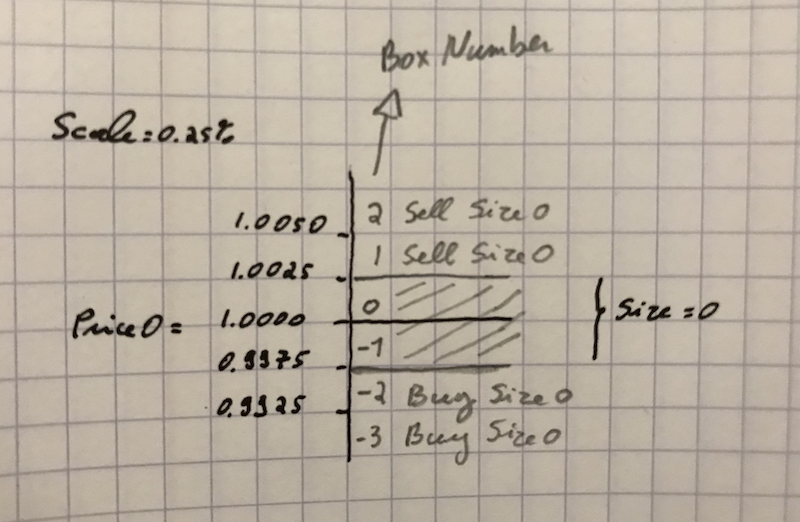
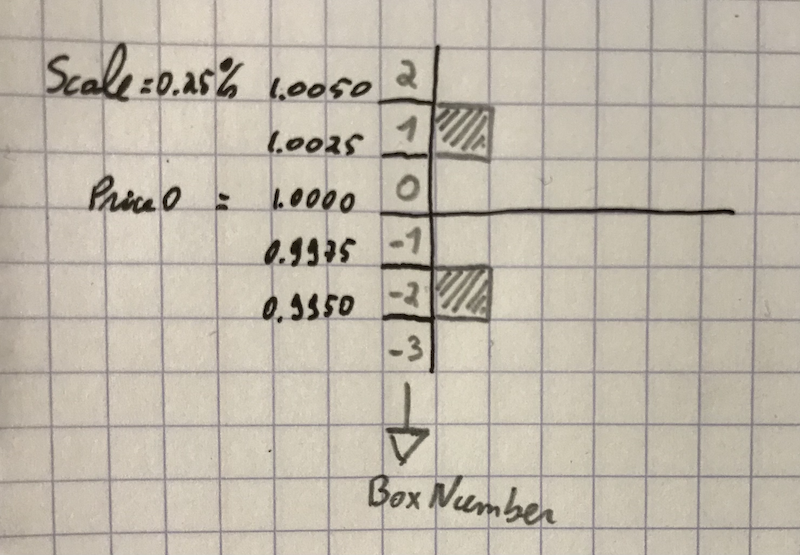
Some corrections, texts and figures.

diff --git a/hedge.md b/hedge.md
@@ -1,6 +1,6 @@
 # Hedging Strategies and Management
 
-An Hedge is a strategy to protect against Forex risk. Static hedges have for purpose to exactly counter balance the forex risk on another contract. Dynamic Hedges have for purpose to look to yield some profit, allowing a certain level of loss.
+An Hedge is a strategy to protect against Forex risk. Static hedges have for purpose to exactly counter balance the forex risk on another contract. Dynamic Hedges have for purpose to yield some profit, allowing for a certain level of loss.
 
 ## Static Hedge
 
@@ -26,7 +26,7 @@ curl -data '{"Size": -10000}' localhost:8080/hedge/static
 
 ## Dynamic Hedge
 
-A Dynamic Hedge is a position variable in size with price fluctuations.
+A Dynamic Hedge is a position variable in size as price fluctuates.
 
 ### Initialisation Parameters:
 
@@ -46,39 +46,42 @@ On the first tick, the dynamic hedge is initialised:
 Imagine the initialisation price is 1.0000, **Price0** is set at 1.0000. Price boxes are defined and numbered as show in the figure below:
 
 ![](img/box0.png)
-*Boxes with price thresholds and corresponding order.*
+*Boxes with price thresholds and corresponding trades.*
 
 
 The Size of the hedge remains 0 for any price fluctuation within Box # -1 and Box # 0 (0.9975 - 1.0025 price range).
 
 The ***BoxUp*** parameter is set at 1, and corresponds to the price range 1.0025 - 1.0050.
 
-The ***BoxDown*** parameter is set at -2, and corresponds to the price range 0.9975 - 0.9950.
+The ***BoxDown*** parameter is set at -2, and corresponds to the price range 0.9950 - 0.9975.
 
 ### The dynamic process
 
-The dynamic trading occurs when the price hits the ***BoxUp*** or ***BoxDown***.
+Trading occurs when the price hits the ***BoxUp*** or ***BoxDown***.
 
 
 In the example below, the price rises above 1.0025, entering ***BoxUp***. The system will do the following:
 
 - Sell 2000 Units
 - Rise ***BoxUp*** to number 2, ( 1.0050 - 1.0075 range)
-- Rise ***BoxDown*** to number 0 (1.0000 - 1.0025 range)
+- Rise ***BoxDown*** to number -1 (0.9975 - 1.0000 range)
 
 
 This is illustrated in the following figure:
 
 ![](img/box1.png)
-*Price touched BoxUp, 2000 units are sold, and boundary boxes are raised.*
+*Price touched BoxUp, 2000 units are sold at 1.0025 (red triangle), and boundary boxes are raised.*
 
-And the process is repeated, selling 2000 when ***BoxUp*** is hit, rising ***BoxUp*** and ***BoxDown***. And conversely buying 2000 when ***BoxDown*** is hit, lowering ***BoxUp*** and ***BoxDown***.
+And the process is repeated, selling 2000 when ***BoxUp*** is hit, rising ***BoxUp*** and ***BoxDown***. And conversely buying 2000 when ***BoxDown*** is hit, lowering ***BoxUp*** and ***BoxDown***. This process entails a buy ***Scale*** percent lower than a sale, each time a box moving down compensates a box moving up (no matter the order of these 2 events).
+
+![](img/box2.png)
+*Two further steps down, 2000 units are bought at 1.0000 and then at 0.9975 (green triangle), and boundary boxes are lowered.*
 
 Two parameters are used to count the number of steps up and down (***LengthUp*** and ***LengthDown***).
 
 ### Risk-Reward of the dynamic process
 
-As price drifts away from ***Price0***, the size of the position will grow, and unrealised losses as well. In order to clearly understand the risk profile, consider the following:
+As price drifts away from ***Price0***, the size of the position will grow, and running losses are accumulating as well. In order to clearly understand the risk profile, consider the following:
 
 #### Risk
 
@@ -88,27 +91,27 @@ If **N** = ***LengthUp*** - ***LengthDown*** is the number of boxes moves away f
 
 (positive for a price movement down and negative for a price movement up)
 
-The accumulated unrealised PL is:
+The accumulated Loss is:
 
-***PL*** = -(***N*** * ***N*** + ***N***)/2  ***Size0*** * ***Scale*** / 100
+***Loss(N)*** = -(***N*** * ***N*** + ***N***)/2  ***Size0*** * ***Scale*** / 100
 
 In the example above, if ***N*** = 10 (2.5% price change):
 
 ***Size*** = ***-10,000 Units***
 
-***PL*** = (100 + 10) / 2 * 2000 * 0.25 / 100 = ***-275 Units***
+***Loss*** = (100 + 10) / 2 * 2000 * 0.25 / 100 = ***-275 Units***
 
 #### Reward
 
-Each time a move up is compensated with a move down (no matter the order), a small profit is generated equals to ***Size0*** * ***Scale*** / 100.
+Each time a move up is compensated with a move down (no matter the order), a small profit is generated equal to ***Size0*** * ***Scale*** / 100.
 
 The number of such box move reversal is:
 
 ***Np*** = max(***LengthUp***, ***LengthDown***) - abs(***LengthUp*** - ***LengthDown***)
 
-And the realised profit is:
+And the profit is:
 
-***Np*** * ***Size0*** * ***Scale*** / 100
+***Profit(Np)*** = ***Np*** * ***Size0*** * ***Scale*** / 100
 
 In the previous example, if ***LengthUp*** = 20 and ***LengthDown*** = 10:
 
@@ -116,12 +119,12 @@ In the previous example, if ***LengthUp*** = 20 and ***LengthDown*** = 10:
 
 and the profit is: 10 * 2000 * 0.25 / 100 = 50 Units
 
-We see that more fluctuations or a deeper reversal is required to get an overall profit.
+We see that more fluctuations (***Np*** increasing) or a deeper reversal (***N*** decreasing) is required to get an overall profit.
 
-The rationale is that over the long run, ***N*** grows slower than ***Np***, thus if the ***Size0*** and ***Scale*** parameter combination is well chosen to avoid excessive risk (and margin calls), the strategy will ultimately be profitable.
+The rationale is that over the long run, ***N*** grows more slowly than ***Np***, thus if the ***Size0*** and ***Scale*** parameter combination is well chosen to avoid excessive risk (and margin calls), the strategy will ultimately be profitable.
 
 ## Removing Hedges
 
 There is no ID for Hedges in the Inventory, and no endpoint to remove Hedges.
 
-The procedure is to save the Inventory in a file, and edit to remove the hedges to decommission, then stop and restart the server with the new inventory state.
+The procedure is to save the Inventory in a file, and edit to remove the hedges to decommission, then stop and restart the server with the new inventory state. See the README file for a description of this process.
